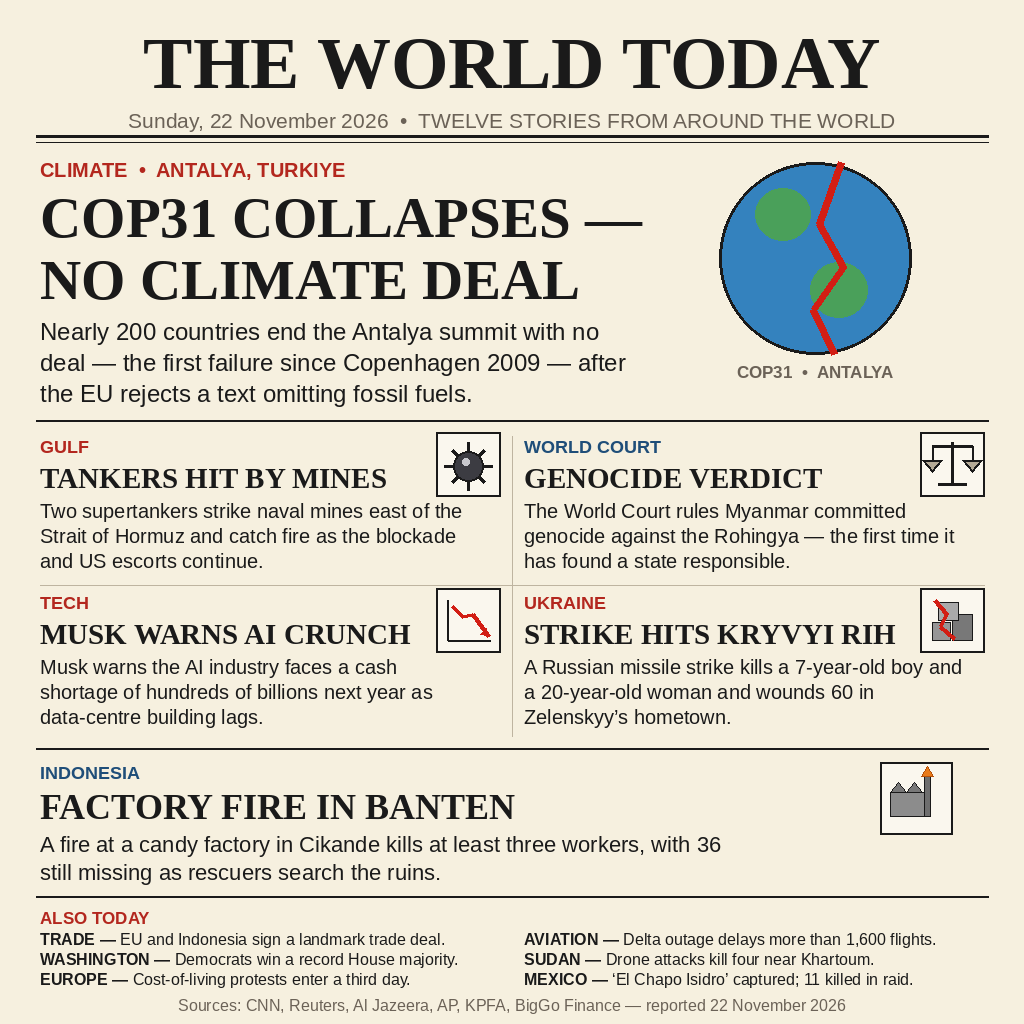
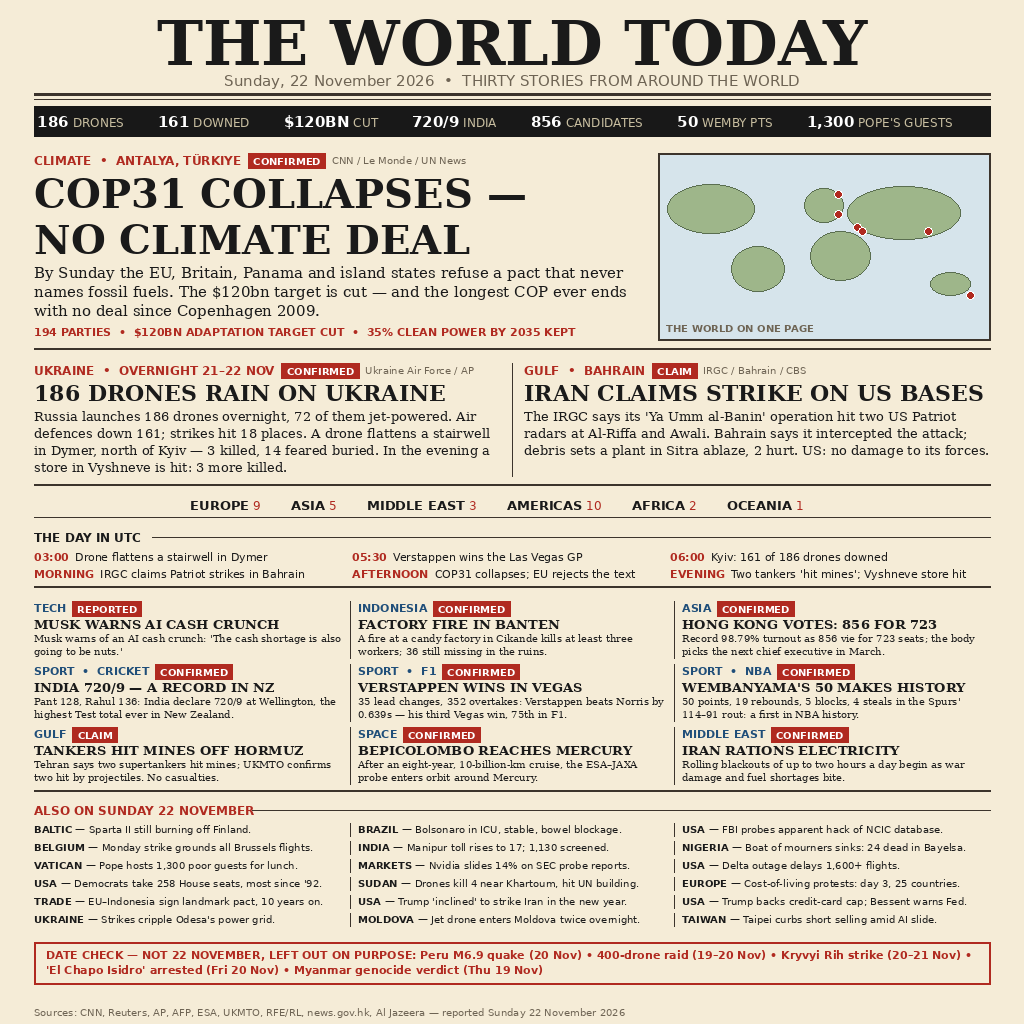
Revise front page to 30 stories

diff --git a/README.md b/README.md
@@ -10,43 +10,61 @@ newspaper front page: "THE WORLD TODAY". Built for make.fun's
 
 ## The image
 
-`news-2026-11-22.png` — 1024×1024 PNG. Twelve stories, all verified
-against news reports published on 22 November 2026:
+`news-2026-11-22.png` — 1024×1024 PNG, drawn by `draw_frontpage.py`
+(Pillow, fixed data, no network — running it twice writes byte-identical
+output). Thirty stories, all verified against news reports published on
+Sunday 22 November 2026, in the classic one-page front-page style:
 
-1. **COP31 collapses** — nearly 200 countries end the Antalya climate
-   summit with no deal, the first failure since Copenhagen 2009, after
-   the EU rejects a text omitting fossil fuels. (CNN, Le Monde, The Times)
-2. **Tankers hit by mines** — two supertankers strike naval mines east
-   of the Strait of Hormuz and catch fire, amid Iran's naval blockade
-   and US escorts. (Reuters, AFP, Al Jazeera)
-3. **Genocide verdict** — the World Court rules Myanmar committed
-   genocide against the Rohingya in 2017, the first time it has found
-   a state responsible for genocide. (KPFA, World Court)
-4. **Musk warns AI crunch** — Elon Musk warns the AI industry faces a
-   cash shortage of hundreds of billions of dollars next year as
-   data-centre building lags behind schedule. (BigGo Finance, 22 Nov)
-5. **Strike hits Kryvyi Rih** — a Russian missile strike kills a
-   7-year-old boy and a 20-year-old woman and wounds 60 in
-   Zelenskyy's hometown. (AP, CNN)
-6. **Factory fire in Banten** — a fire at a candy factory in Cikande,
-   Indonesia, kills at least three workers, with 36 still missing.
-   (AP, Reuters)
+**Lead stories**
 
-Also today: EU–Indonesia landmark trade deal; Delta outage delays
-1,600+ flights; Democrats win a record US House majority; drone
-attacks kill four near Khartoum; cost-of-living protests enter a
-third day in Europe; 'El Chapo Isidro' captured in Sinaloa.
+1. **COP31 collapses** — the EU, Britain, Panama and island states
+   refuse a pact that never names fossil fuels; the $120bn-a-year
+   adaptation target is cut. Longest COP ever, first failure since
+   Copenhagen 2009. (CNN, Le Monde, UN News)
+2. **186 drones rain on Ukraine** — Russia launches 186 drones overnight
+   (72 jet-powered); 161 are downed. A drone flattens a stairwell in
+   Dymer — 3 killed, 14 feared buried; an evening strike on a Vyshneve
+   store kills 3 more. (Ukraine Air Force, AP)
+3. **Iran claims strike on US bases** — the IRGC says its 'Ya Umm
+   al-Banin' operation hit two US Patriot radars at Al-Riffa and Awali
+   in Bahrain; Bahrain says it intercepted the attack, debris setting a
+   Sitra plant ablaze. (IRGC, Bahrain, CBS)
+
+**Also on the page** — Musk warns of an AI cash crunch; factory fire in
+Banten (3 dead, 36 missing); Hong Kong votes, 856 candidates for 723
+seats at a record 98.79% turnout; India declare 720/9 at Wellington,
+the highest Test total ever in New Zealand; Verstappen wins a Las
+Vegas thriller (35 lead changes); Wembanyama's 50 makes NBA history;
+two tankers hit mines off Hormuz; BepiColombo reaches Mercury after an
+eight-year cruise; Iran starts electricity rationing — plus 18 more
+briefs (Sparta II still burning, Bolsonaro in ICU, FBI's NCIC hack,
+Belgium's Monday air shutdown, Manipur toll 17, Nigeria boat 24 dead,
+Pope Leo XIV's lunch for 1,300, Nvidia's 14% slide, Delta's 1,600+
+delays, Democrats' 258 House seats, Khartoum drones, Europe's
+cost-of-living protests, the EU–Indonesia pact, Trump on Iran and the
+credit-card cap, Odesa's grid, a jet drone over Moldova, Taiwan's
+short-selling curb).
+
+A red **DATE CHECK** box lists big stories deliberately left out because
+they are not 22 November news: the Peru M6.9 quake (20 Nov), the
+400-drone raid (19–20 Nov), the Kryvyi Rih strike (20–21 Nov), the
+'El Chapo Isidro' arrest (Fri 20 Nov) and the Myanmar genocide verdict
+(Thu 19 Nov). Every story carries a certainty tag — CONFIRMED, REPORTED
+or CLAIM — and its source.
 
 ## Run it
 
 ```sh
+python3 draw_frontpage.py
+# redraws news-2026-11-22.png (byte-identical on every run)
 python3 main.py
 # writes /output/entry.png (byte-identical on every run)
 ```
 
-`main.py` only copies the image with the standard library — no network,
-no randomness, no timestamps. It also validates the PNG header
-(dimensions within the 1024×1024 cap).
+`draw_frontpage.py` draws the front page from the verified story data
+in the file itself; `main.py` only copies the image with the standard
+library — no network, no randomness, no timestamps. It also validates
+the PNG header (dimensions within the 1024×1024 cap).
 
 ---
 
